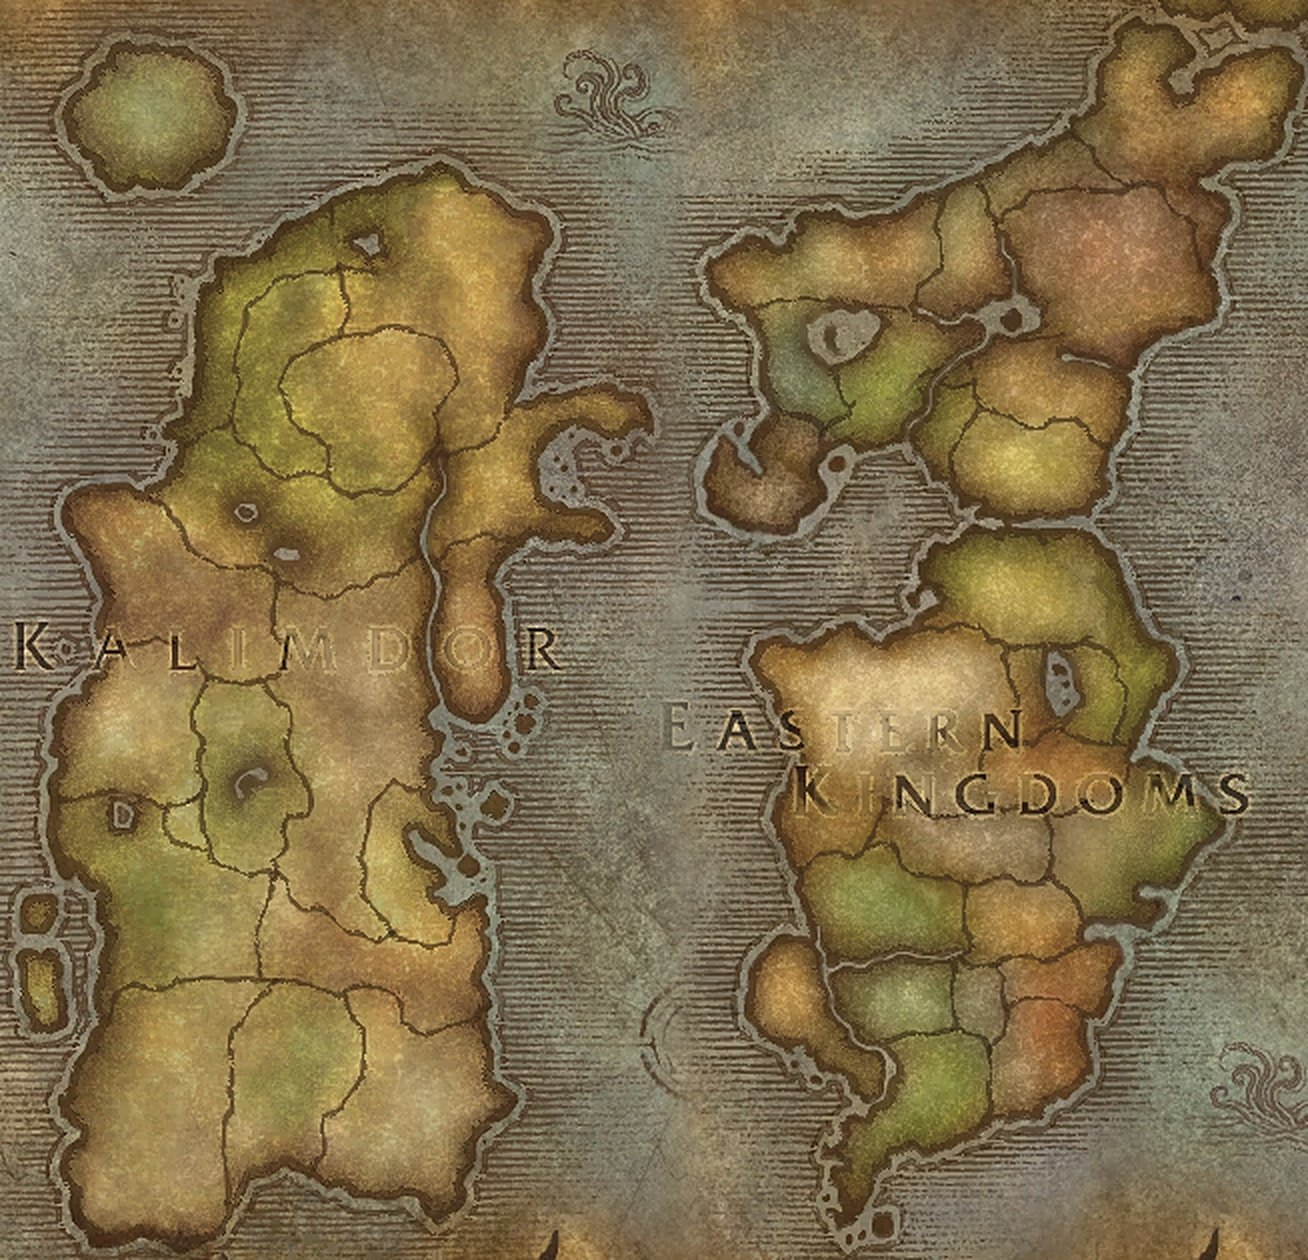
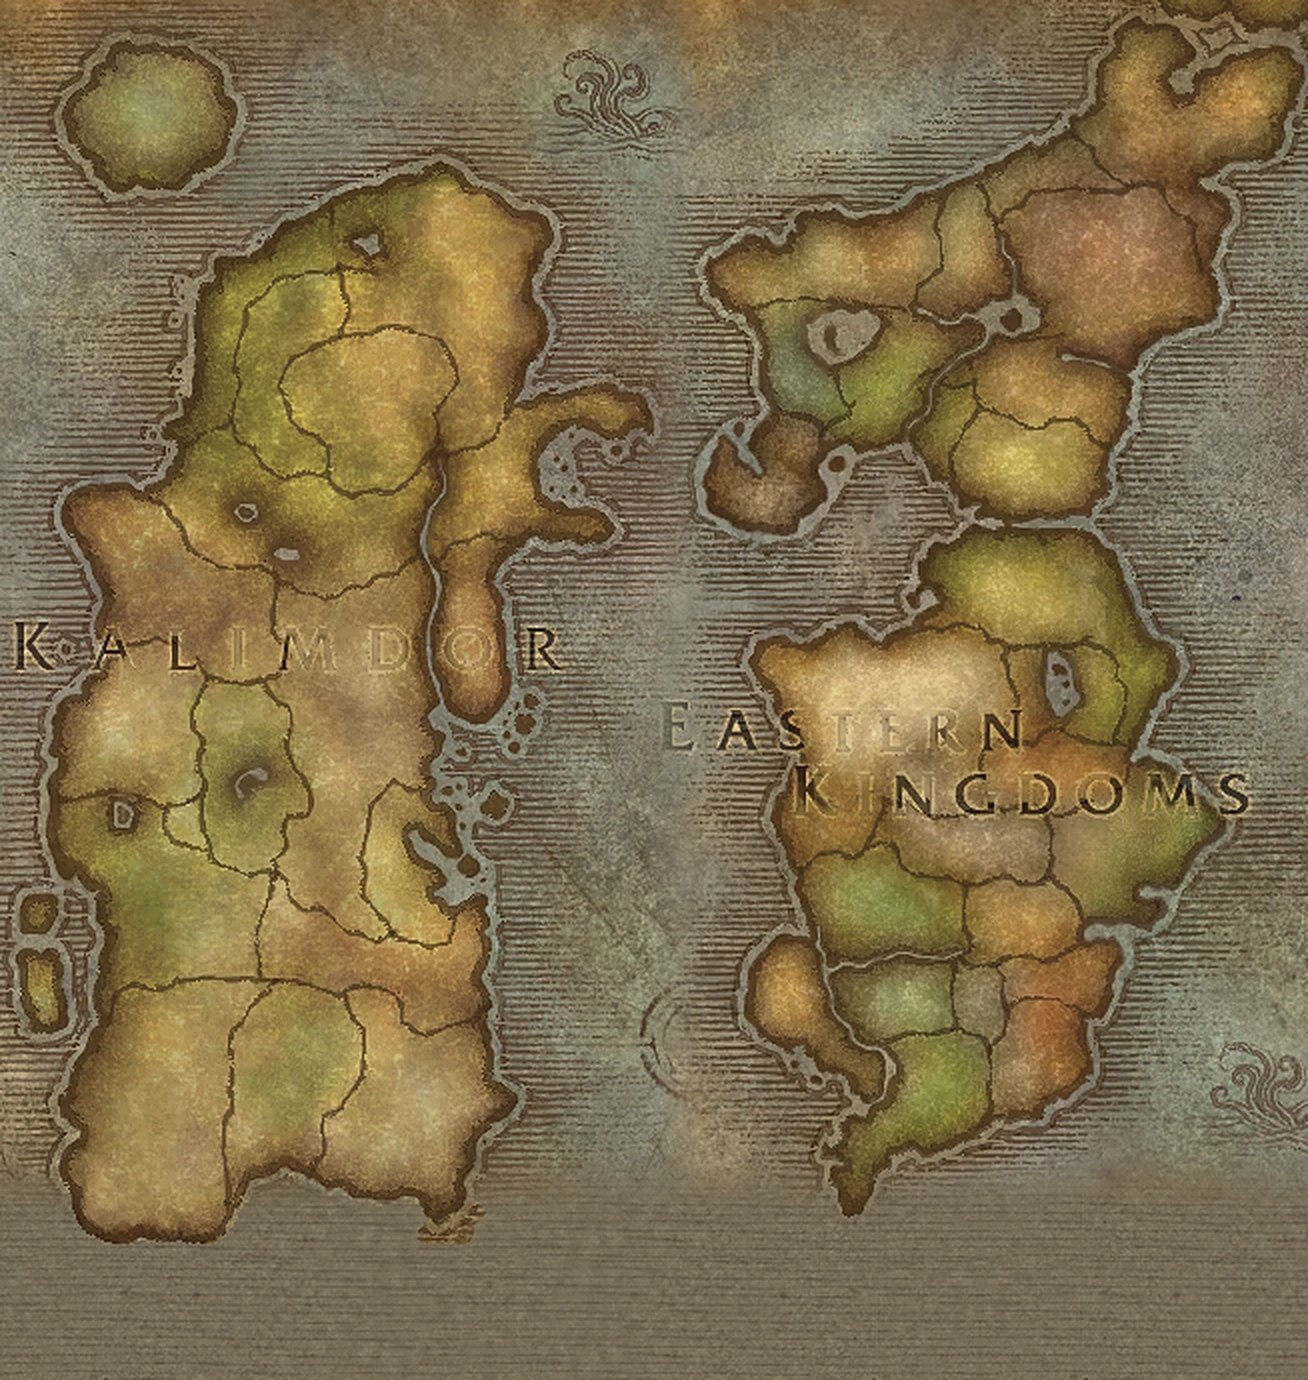
Guild War: curl only the top-left and bottom-right corners; more sea below the continents; boat routes follow the sea around the coasts

diff --git a/guild-war/board.js b/guild-war/board.js
@@ -44,10 +44,11 @@
 
   // the map's edges curl up like old parchment
   const CURL_BAND = 0.07, CURL_LIFT = 0.28;
+  // only the top-left and bottom-right corners curl (uv: v = 1 is the top edge)
+  const CURL_R = 0.16;
   function curlHeight(u, v){
-    const e = (d) => d < CURL_BAND ? Math.pow((CURL_BAND - d) / CURL_BAND, 2) : 0;
-    const a = Math.max(e(u), e(1 - u)), c = Math.max(e(v), e(1 - v));
-    return (a + c + a * c) * CURL_LIFT;
+    const corner = (du, dv) => { const d = Math.hypot(du, dv * MH / MW); return d < CURL_R ? Math.pow((CURL_R - d) / CURL_R, 2) : 0; };
+    return Math.max(corner(u, 1 - v), corner(1 - u, v)) * CURL_LIFT * 1.6;
   }
 
   // ---------- small canvas textures ----------
@@ -412,6 +413,73 @@
       this.scene.add(m); this.mapMesh = m; this.mapGeo = geo;
       this.drawMap();
     }
+    // Boat routes: shortest sea path (A* on a coarse grid of the outline map) from the coast nearest one
+    // zone's anchor to the coast nearest the other's, kept a little off the shore, then thinned to waypoints.
+    routeSeaPaths(){
+      const S = 3, R = this.raster, RW = this.RW, RH = this.RH;
+      const GW = Math.floor(RW / S), GH = Math.floor(RH / S), N = GW * GH;
+      const sea = new Uint8Array(N);
+      for(let gy = 0; gy < GH; gy++) for(let gx = 0; gx < GW; gx++){
+        let water = true;
+        for(let y = 0; y < S && water; y++) for(let x = 0; x < S; x++){ const v = R[(gy * S + y) * RW + gx * S + x]; if(v !== 0){ water = false; break; } }
+        sea[gy * GW + gx] = water ? 1 : 0;
+      }
+      // distance to land (grid steps), so routes keep a little water between them and the coast
+      const dist = new Float32Array(N).fill(1e9), q = [];
+      for(let i = 0; i < N; i++) if(!sea[i]){ dist[i] = 0; q.push(i); }
+      for(let h = 0; h < q.length; h++){
+        const i = q[h], x = i % GW, y = (i / GW) | 0;
+        [[1, 0], [-1, 0], [0, 1], [0, -1]].forEach(([dx, dy]) => {
+          const nx = x + dx, ny = y + dy; if(nx < 0 || ny < 0 || nx >= GW || ny >= GH) return;
+          const j = ny * GW + nx; if(dist[j] > dist[i] + 1){ dist[j] = dist[i] + 1; q.push(j); }
+        });
+      }
+      const cost = i => 1 + 8 * Math.exp(-dist[i] / 2.5);
+      const toG = (mx, my) => [Math.floor(mx / MW * RW / S), Math.floor(my / MH * RH / S)];
+      const nearestSea = (mx, my, toward) => {
+        const [cx, cy] = toG(mx, my); let best = -1, bd = 1e9;
+        for(let r = 1; r < 60 && best < 0; r++) for(let y = cy - r; y <= cy + r; y++) for(let x = cx - r; x <= cx + r; x++){
+          if(x < 0 || y < 0 || x >= GW || y >= GH) continue; const i = y * GW + x; if(!sea[i] || dist[i] < 2) continue;
+          const d = Math.hypot(x - cx, y - cy) + 0.25 * Math.hypot(x - toward[0], y - toward[1]);
+          if(d < bd){ bd = d; best = i; }
+        }
+        return best;
+      };
+      const astar = (s, t) => {
+        const g = new Float32Array(N).fill(Infinity), from = new Int32Array(N).fill(-1), done = new Uint8Array(N); g[s] = 0;
+        const tx = t % GW, ty = (t / GW) | 0, hz = i => Math.hypot(i % GW - tx, ((i / GW) | 0) - ty);
+        // binary min-heap of [priority, cell]
+        const heap = [[0, s]];
+        const push = e => { heap.push(e); let k = heap.length - 1; while(k){ const p = (k - 1) >> 1; if(heap[p][0] <= heap[k][0]) break; [heap[p], heap[k]] = [heap[k], heap[p]]; k = p; } };
+        const pop = () => { const top = heap[0], last = heap.pop(); if(heap.length){ heap[0] = last; let k = 0; for(;;){ const l = 2 * k + 1, r = l + 1; let m = k; if(l < heap.length && heap[l][0] < heap[m][0]) m = l; if(r < heap.length && heap[r][0] < heap[m][0]) m = r; if(m === k) break; [heap[m], heap[k]] = [heap[k], heap[m]]; k = m; } } return top; };
+        while(heap.length){
+          const [, i] = pop(); if(done[i]) continue; done[i] = 1;
+          if(i === t) break;
+          const x = i % GW, y = (i / GW) | 0;
+          for(let dy = -1; dy <= 1; dy++) for(let dx = -1; dx <= 1; dx++){
+            if(!dx && !dy) continue; const nx = x + dx, ny = y + dy; if(nx < 0 || ny < 0 || nx >= GW || ny >= GH) continue;
+            const j = ny * GW + nx; if(!sea[j]) continue;
+            const ng = g[i] + cost(j) * (dx && dy ? 1.414 : 1);
+            if(ng < g[j]){ g[j] = ng; from[j] = i; push([ng + hz(j), j]); }
+          }
+        }
+        if(from[t] < 0 && s !== t) return null;
+        const out = []; for(let i = t; i >= 0; i = from[i]){ out.push(i); if(i === s) break; }
+        return out.reverse();
+      };
+      const paths = {};
+      WAR_ROUTES.filter(rt => rt.kind === 'boat').forEach(rt => {
+        const A = WAR_LAYOUT[rt.a], B = WAR_LAYOUT[rt.b];
+        const s = nearestSea(A.x, A.y, toG(B.x, B.y)), t = nearestSea(B.x, B.y, toG(A.x, A.y));
+        if(s < 0 || t < 0) return;
+        const cells = astar(s, t); if(!cells) return;
+        const pts = cells.filter((_, i) => i % 6 === 0 || i === cells.length - 1)
+          .map(i => [((i % GW) + 0.5) * S / RW * MW, ((((i / GW) | 0) + 0.5) * S) / RH * MH]);
+        paths[rt.a + '|' + rt.b] = pts;
+      });
+      return paths;
+    }
+
     // height of the curled sheet at a map point, so things placed near the edge sit on it
     sheetY(x, y){ return curlHeight(x / MW, 1 - y / MH); }
     ownerOf(k){ return this.state && this.state.zones[k] ? this.state.zones[k].owner : 'neutral'; }
@@ -443,8 +511,23 @@
         g.imageSmoothingEnabled = true;
         g.drawImage(this.overlayCanvas, 0, 0, W, H);
       }
-      // routes
+      // routes: boats follow the sea around the coasts; zeppelins fly straight over
+      const seaPaths = this.raster ? (this.seaPaths = this.seaPaths || this.routeSeaPaths()) : {};
       WAR_ROUTES.forEach(rt => {
+        const path = rt.kind === 'boat' && seaPaths[rt.a + '|' + rt.b];
+        if(path){
+          g.setLineDash([20, 13]); g.lineWidth = 5; g.strokeStyle = 'rgba(24,48,70,0.7)';
+          g.beginPath(); g.moveTo(path[0][0] * sx, path[0][1] * sy);
+          for(let i = 1; i < path.length - 1; i++){
+            const mx = (path[i][0] + path[i + 1][0]) / 2, my = (path[i][1] + path[i + 1][1]) / 2;
+            g.quadraticCurveTo(path[i][0] * sx, path[i][1] * sy, mx * sx, my * sy);
+          }
+          const last = path[path.length - 1]; g.lineTo(last[0] * sx, last[1] * sy); g.stroke(); g.setLineDash([]);
+          const mid = path[Math.floor(path.length / 2)];
+          g.font = '28px serif'; g.fillStyle = '#2d1e10'; g.textAlign = 'center'; g.textBaseline = 'middle';
+          g.fillText('⛵', mid[0] * sx, mid[1] * sy);
+          return;
+        }
         const a = WAR_LAYOUT[rt.a], b = WAR_LAYOUT[rt.b];
         const mx = (a.x + b.x) / 2, my = (a.y + b.y) / 2, dx = b.x - a.x, dy = b.y - a.y;
         const bend = rt.kind === 'zeppelin' ? -0.18 : 0.14;

diff --git a/guild-war/map-layout.js b/guild-war/map-layout.js
@@ -3,7 +3,7 @@
    guild-war/img/war-map.jpg. guild-war/img/war-zones.png holds the zone outlines at half the map's resolution:
    each pixel is 1 + the zone's index in WAR_ZONE_ORDER, 0 = sea, 253 = land that isn't a zone, 254 = lake.
    x, y = the most inland point of the zone (where its banner stands); r = its rough radius. */
-const WAR_MAP_SIZE = { w: 1308, h: 1260 };
+const WAR_MAP_SIZE = { w: 1308, h: 1380 };
 const WAR_MAP_IMAGE = 'guild-war/img/war-map.jpg';
 const WAR_ZONE_IMAGE = 'guild-war/img/war-zones.png';
 const WAR_ZONE_ORDER = ["teldrassil","darkshore","felwood","hyjal","moonglade","winterspring","azshara","durotar","ashenvale","stonetalon","desolace","feralas","barrens","mulgore","dustwallow","thousand_needles","silithus","ungoro","tanaris","shendralas","eplaguelands","wplaguelands","tirisfal","silverpine","alterac","hillsbrad","hinterlands","arathi","wetlands","loch_modan","dun_morogh","badlands","burning_steppes","riverglades","elwynn","redridge","westfall","duskwood","deadwind","swamp_sorrows","blasted_lands","stranglethorn","searing_gorge"];
@@ -27,7 +27,7 @@ const WAR_LAYOUT = {
   thousand_needles: { x: 436, y: 986, r: 75 },
   silithus:         { x: 152, y: 1098, r: 109 },
   ungoro:           { x: 298, y: 1052, r: 81 },
-  tanaris:          { x: 422, y: 1096, r: 97 },
+  tanaris:          { x: 422, y: 1096, r: 92 },
   shendralas:       { x: 182, y: 822, r: 22 },
   eplaguelands:     { x: 1110, y: 268, r: 93 },
   wplaguelands:     { x: 972, y: 268, r: 50 },
